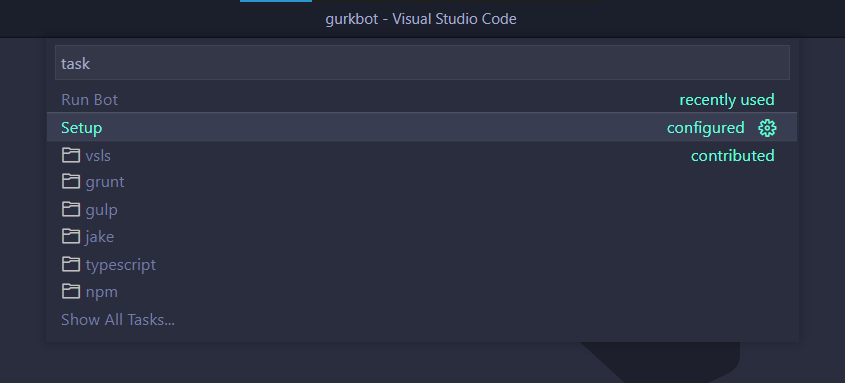
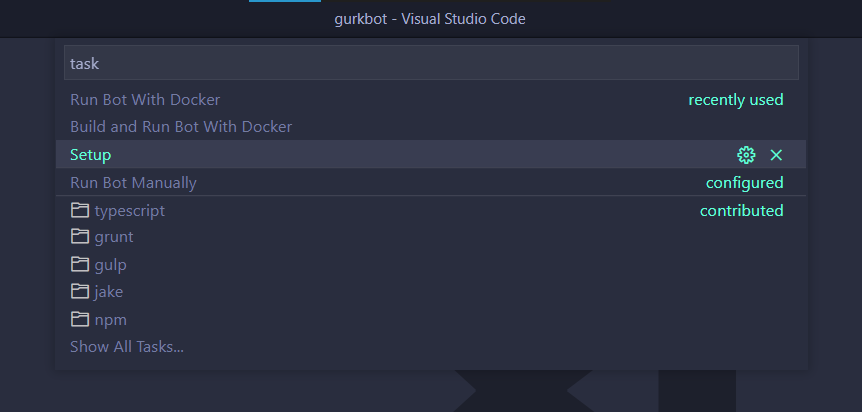
:memo: docs: document new vscode tasks

diff --git a/README.md b/README.md
@@ -59,8 +59,8 @@ Then navigate to the directory `cd gurkbot/`
 
 1. Run the setup task by pressing `Ctrl + P` and typing `task Setup`
 
-2. Run the bot in development using the `Run Bot` task(You can run it just like the Setup task
-in the previous step). You can also run this task by pressing `Ctrl + Shift + B`
+2. Run the bot in development using the any of the `Run Bot` tasks(You can run them just like the Setup task
+in the previous step). You can also run the default build task by pressing `Ctrl + Shift + B`
 
 ## Commands to Remember
 `poetry run task precommit` - Installs the pre-commit git hook
